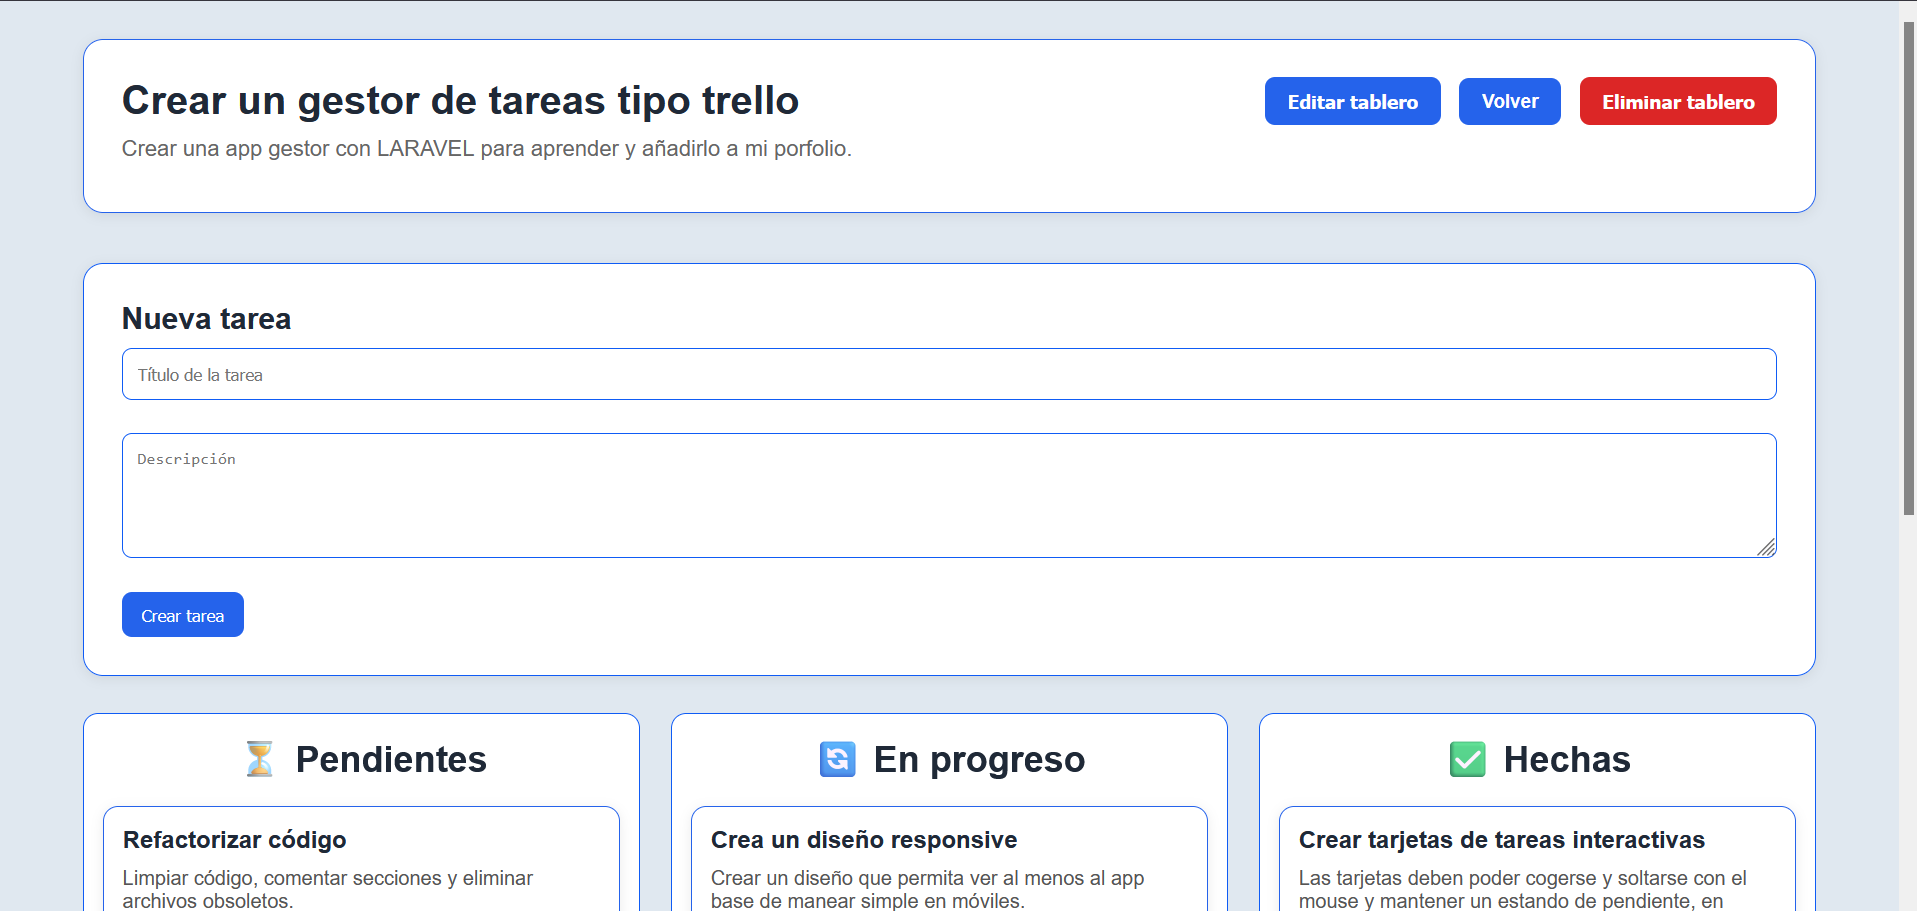
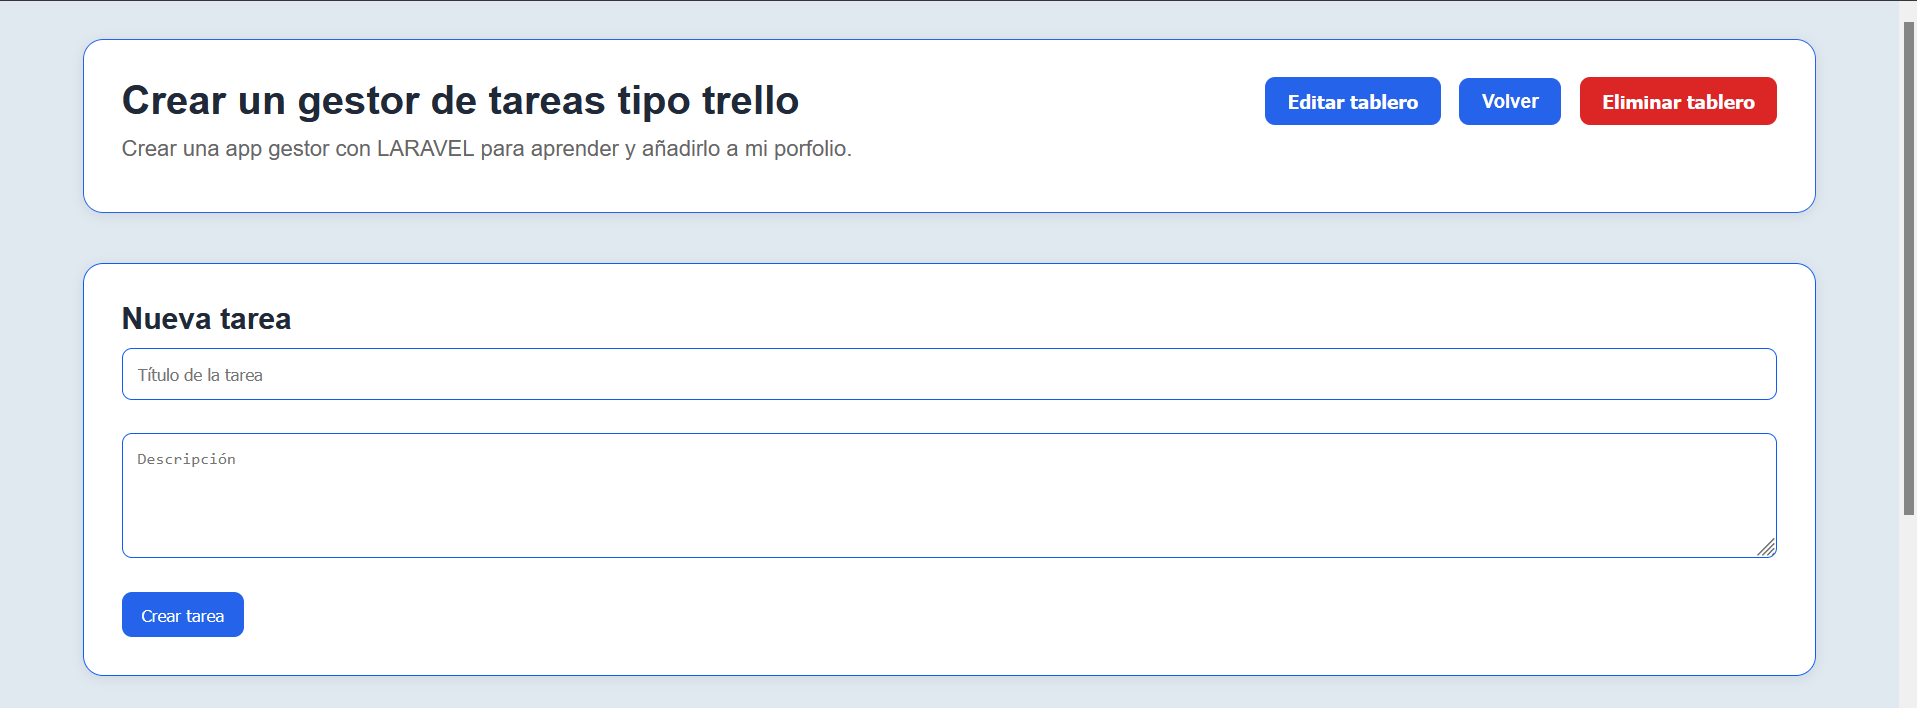
Aplicación terminada v2.1 - Responsive móvil y mejoras UX/UI

diff --git a/README.md b/README.md
@@ -88,6 +88,30 @@ El objetivo de este proyecto ha sido desarrollar una aplicación de gestión de 
 
 ---
 
+## 📱 Soporte para dispositivos móviles
+
+La aplicación fue diseñada inicialmente para ser utilizada en **ordenadores de escritorio**, ya que la gestión de tareas mediante un tablero Kanban con varias columnas y tarjetas arrastrables ofrece una mejor experiencia en pantallas amplias.
+
+No obstante, en la versión **2.0** se ha añadido un sistema **responsive** para permitir que los usuarios puedan consultar y gestionar sus proyectos desde dispositivos móviles cuando sea necesario.
+
+Las principales adaptaciones realizadas son:
+
+* Diseño responsive para las pantallas de autenticación, panel de control y gestión de tableros.
+* Interfaces adaptadas para mejorar la navegación en pantallas pequeñas.
+* Detección de la orientación del dispositivo para ofrecer la mejor experiencia de uso según la sección de la aplicación.
+* Ajustes específicos para la visualización de los tableros Kanban en dispositivos móviles.
+
+Además, se ha garantizado el correcto funcionamiento del sistema de **drag & drop** de las tarjetas, permitiendo mover tareas entre columnas tanto en escritorio como en dispositivos móviles compatibles.
+
+> **Nota:** Aunque la aplicación puede utilizarse desde un teléfono móvil, la experiencia de usuario recomendada sigue siendo la versión de escritorio, especialmente para la gestión intensiva de tareas y el trabajo con múltiples columnas del tablero Kanban.
+
+![Responsive](docs/img/responsive.png)
+![Responsive2](docs/img/responsive_2.png)
+![Responsive3](docs/img/responsive_3.png)
+
+---
+
+
 # ⚙️ Tecnologías utilizadas
 
 * PHP 8.5